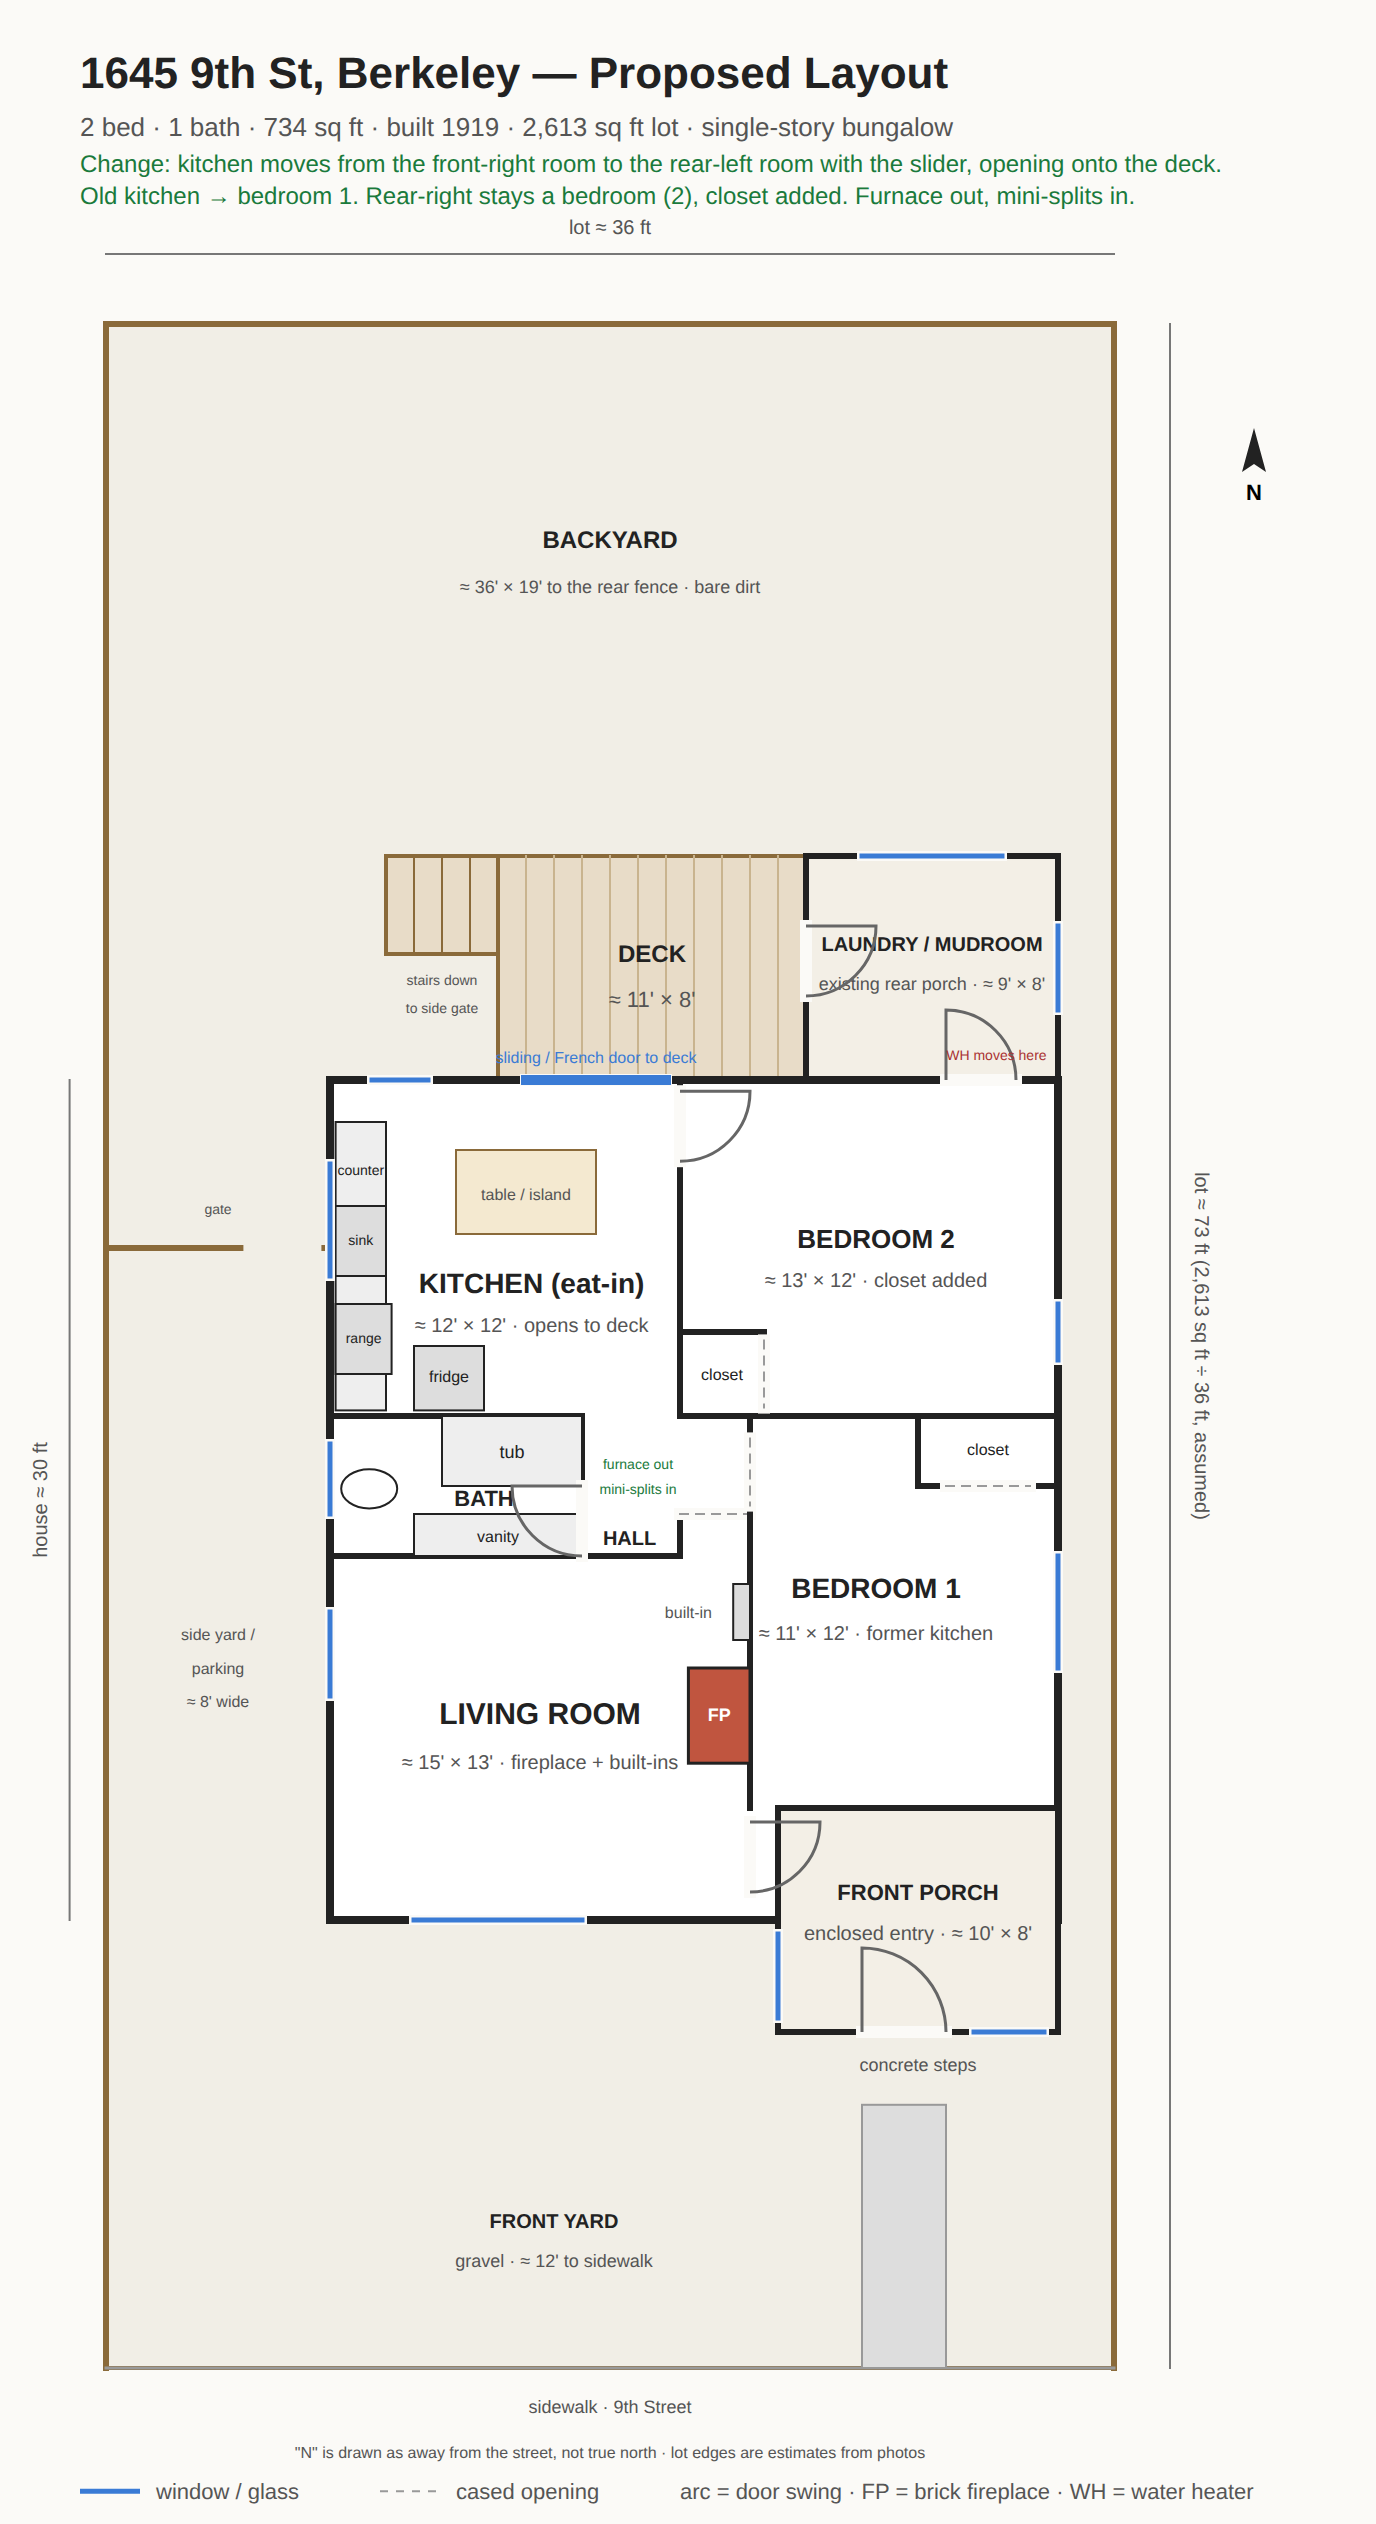
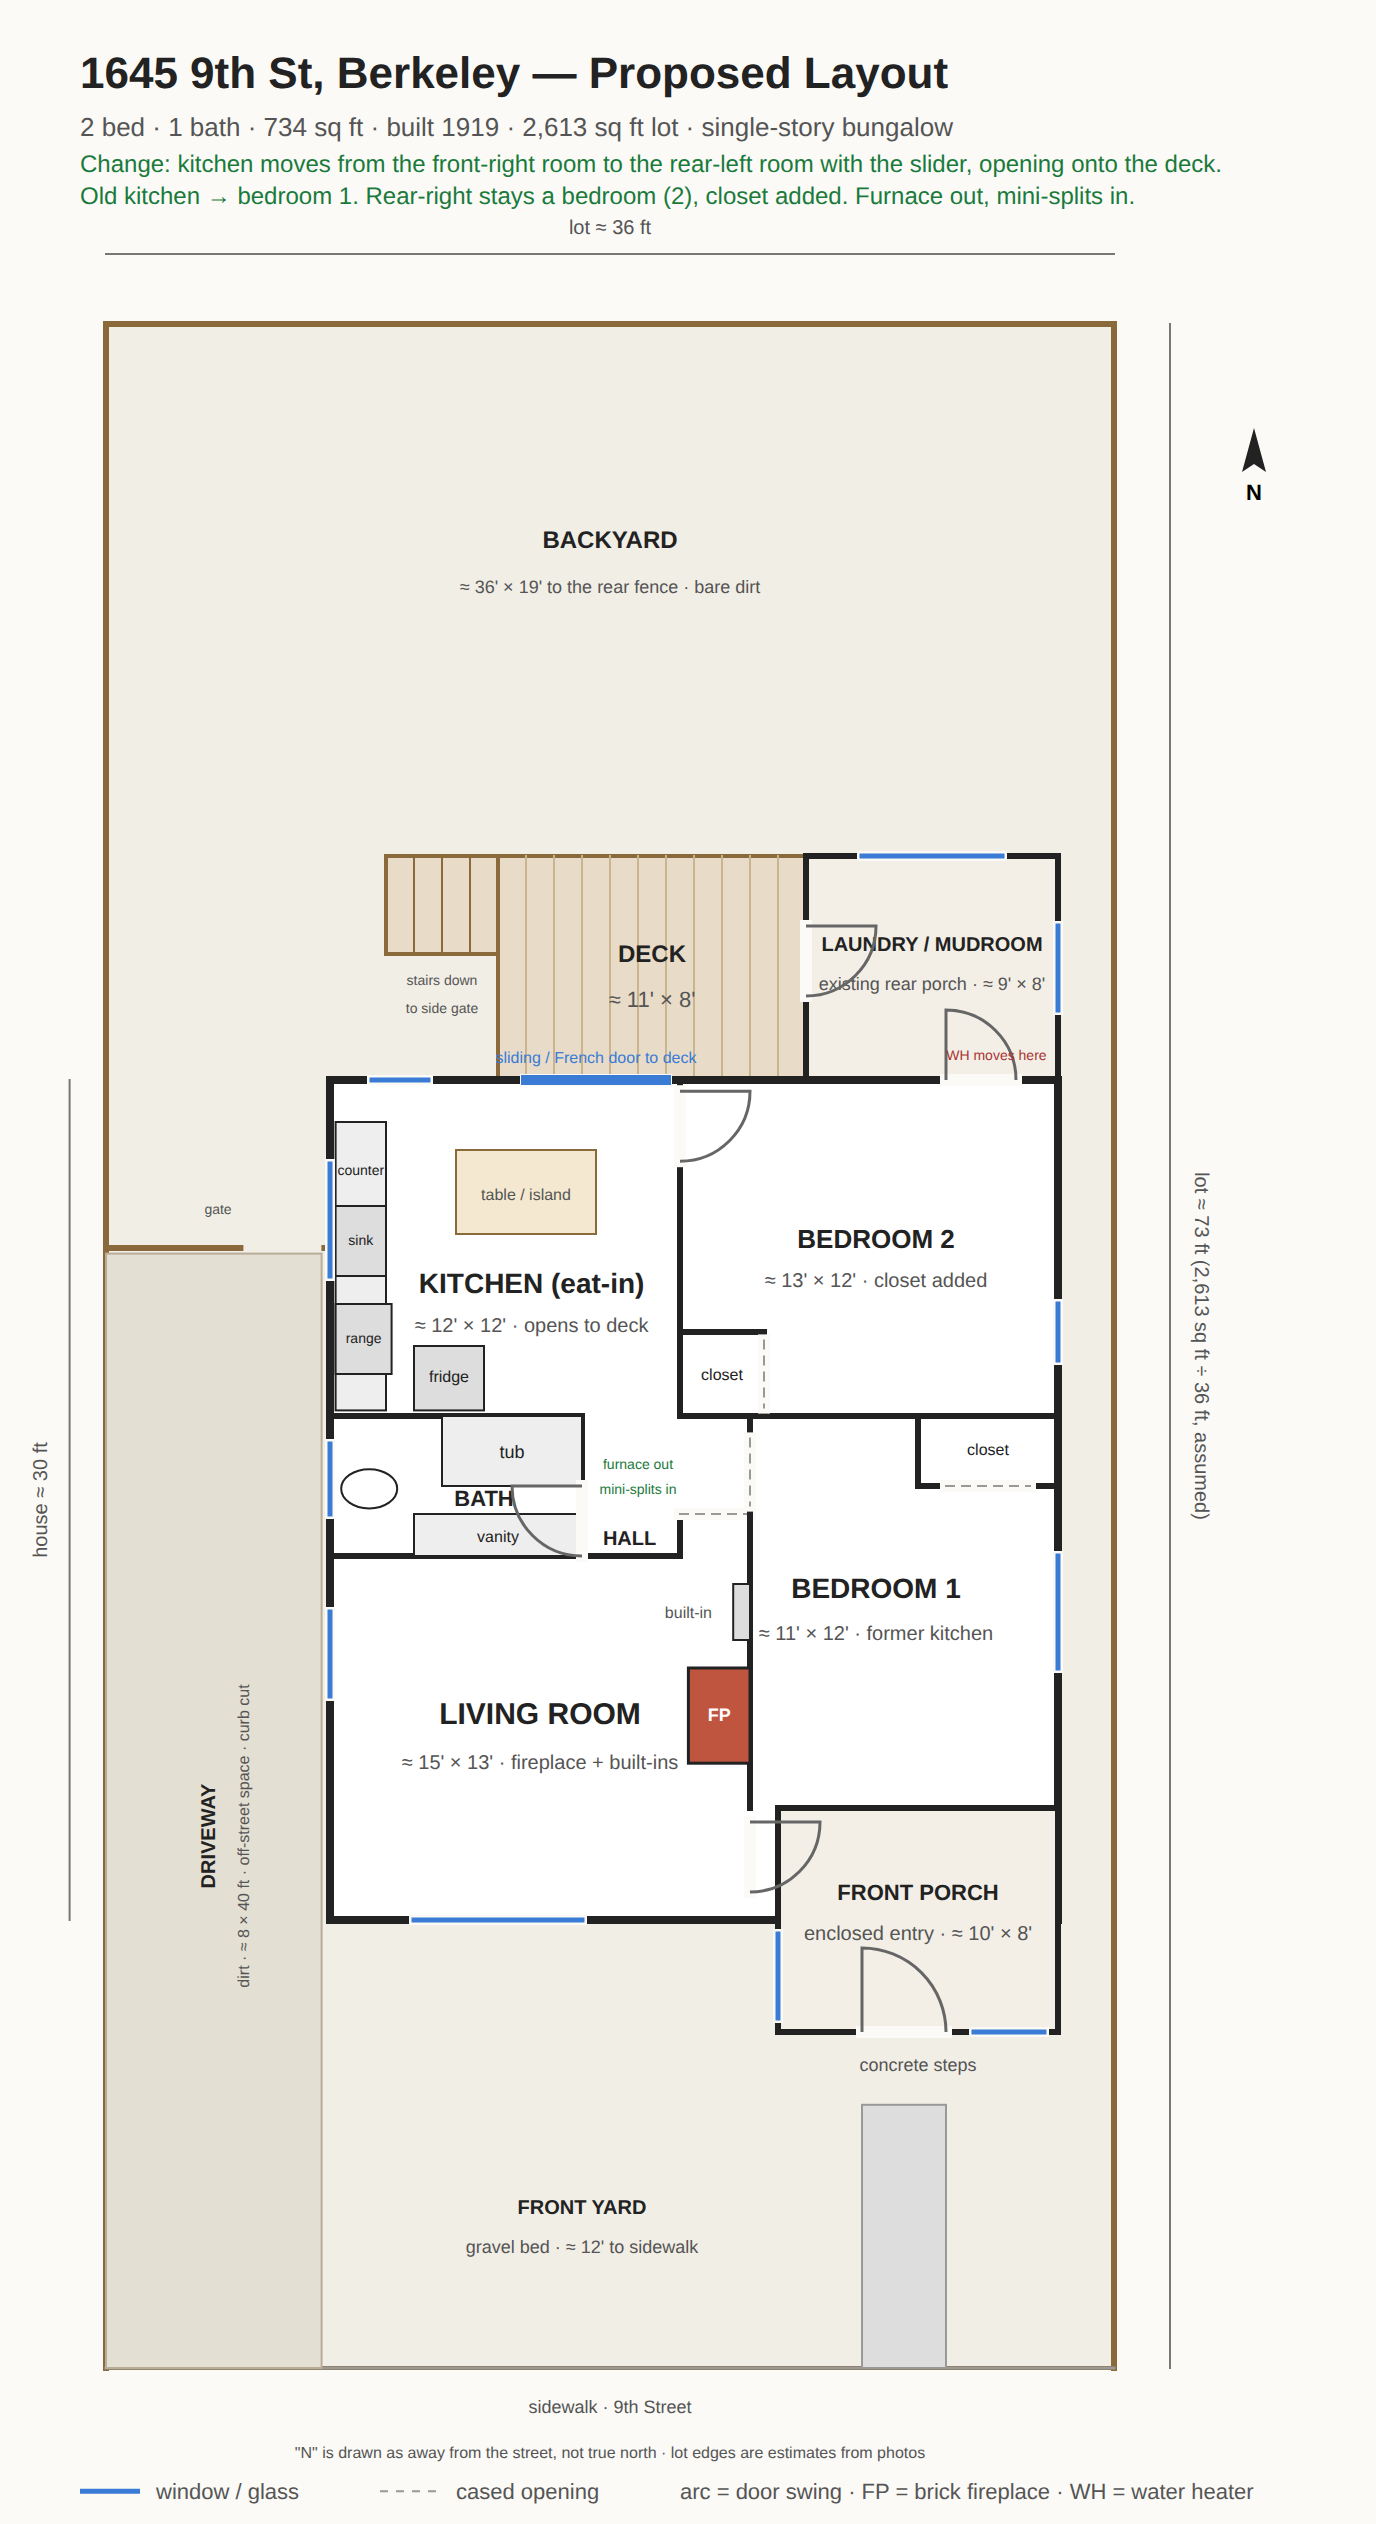
Draw the driveway: dirt strip on the west side from the curb to the side gate
Claude-Session: https://claude.ai/code/session_01QP4ZkLkW7cUrZ9x3HXMY7H

Changed region(s): [[0.3438, 0.8653, 0.5, 0.8962], [0.125, 0.649, 0.1875, 0.7726], [0.0625, 0.4945, 0.0938, 0.5254]]

diff --git a/floor-plan/generate.py b/floor-plan/generate.py
@@ -52,8 +52,11 @@ def build(variant):
     line(-8,46,28,46,stroke="#999",sw=1.5)   # front lot line / sidewalk
     line(-8,6,-3.2,6,stroke="#8a6a3a",sw=3); line(-0.2,6,0,6,stroke="#8a6a3a",sw=3); label(-4,4.8,"gate",7,False,"#555")   # side-yard gate (photos 01, 21)
     label(10,-19,"BACKYARD",12); label(10,-17.4,"≈ 36' × 19' to the rear fence · bare dirt",9,False,"#555")
-    label(-4,20,"side yard /",8,False,"#555"); label(-4,21.2,"parking",8,False,"#555"); label(-4,22.4,"≈ 8' wide",8,False,"#555")
-    label(8,41,"FRONT YARD",10); label(8,42.4,"gravel · ≈ 12' to sidewalk",9,False,"#555")
+    # driveway (photos 01, 02): dirt, from the curb along the west side of the house to the gate; the one off-street space
+    rect(-8,6.2,-0.3,46,fill="#e4dfd3",stroke="#b8ad98",sw=1)
+    p=P(-4.1,27); out.append(f'<text transform="translate({p[0]},{p[1]}) rotate(-90)" font-size="10" font-weight="bold" text-anchor="middle" fill="#222">DRIVEWAY</text>')
+    p=P(-2.9,27); out.append(f'<text transform="translate({p[0]},{p[1]}) rotate(-90)" font-size="8" text-anchor="middle" fill="#555">dirt · ≈ 8 × 40 ft · off-street space · curb cut</text>')
+    label(9,40.5,"FRONT YARD",10); label(9,41.9,"gravel bed · ≈ 12' to sidewalk",9,False,"#555")
     rect(19,36.6,22,46,fill="#ddd",stroke="#999",sw=1)   # front walk
     label(10,47.6,"sidewalk · 9th Street",9,False,"#555")
     # deck (photo 21): between the rear porch and the slider; stairs off its west end step down westward toward the side gate

diff --git a/CLAUDE.md b/CLAUDE.md
@@ -43,7 +43,7 @@ Rough photo index:
 
 The existing plan was reconstructed from the listing photos only, not measured. Treat room sizes as ±2 ft. Layout as drawn: living room front-left, with the built-in, the brick fireplace (flush on the far side) and the door to the front porch along its east wall; the living room connects to the hall through an inset cased doorway in an alcove at its north-east corner (photos 04, 07); the hall's west end is the bath door with the floor furnace grate right outside it (photo 14), and a cased opening on the hall's east side leads into the front-right room; enclosed front porch front-right; **kitchen behind the porch (front-right, ≈11×12)**, entered from the hall through a cased opening; small central hall open to the rear-left room; narrow bathroom on the left (door at the east end; from it, vanity on the south wall, tub on the north wall with its end at the door, toilet under the west window); **bedroom 1 rear-right (≈13×12) with a door to the rear porch, reached through a door in the rear corner of bedroom 2** (photo 18); bedroom 2 rear-left (≈12×12) with a slider at the east end of its back wall onto the deck (≈11×8, stairs off its west end stepping down westward toward the side gate) and a small window west of the slider; unfinished enclosed rear porch off bedroom 1. Bathroom position and door placements are the least certain parts.
 
-The lot is drawn from photos 01, 05 and 21 and the listed 2,613 sq ft: about 36 ft wide (an 8 ft side yard with the off-street space on the west, 2 ft on the east) by 73 ft deep, with roughly 19 ft of bare backyard behind the deck and 12 ft of gravel front yard to the sidewalk. The side-yard gate is near the house's rear corner. None of that is measured.
+The lot is drawn from photos 01, 05 and 21 and the listed 2,613 sq ft: about 36 ft wide (an 8 ft dirt driveway on the west running from the curb to the side gate, 2 ft on the east) by 73 ft deep, with roughly 19 ft of bare backyard behind the deck and 12 ft of gravel front yard to the sidewalk. The side-yard gate is near the house's rear corner. None of that is measured.
 
 Correction, Sept 9: the first draft had the kitchen and bedroom 1 swapped (kitchen rear-right, bedroom 1 front-right). Keith confirmed after the walkthrough that the front-right room is the kitchen today. Room sizes still need checking against a real plan; none was found in the listing or the disclosure package. The first draft also drew a 2 ft double wall between the two rear rooms; there was no evidence for it, so it is now one wall with a single door in the rear corner, where photo 18 shows it. The same photo shows no closet in that corner, so the bedroom 2 closet from the first draft is gone.
 
